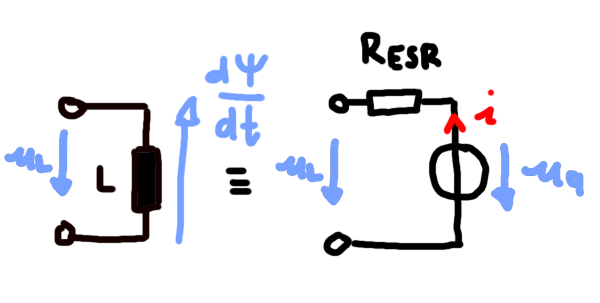
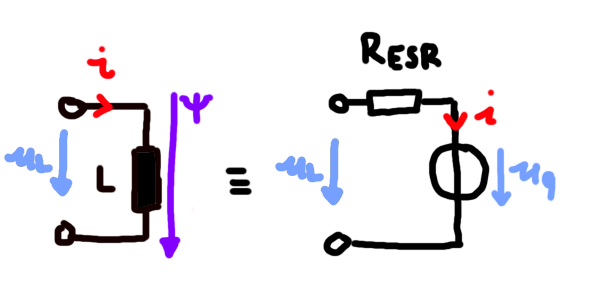
vault backup: 2025-05-11 21:39:41 from PC-Simon

diff --git a/Elektrotechnik/Induktivität.md b/Elektrotechnik/Induktivität.md
@@ -84,7 +84,22 @@ Im statischen Fall entspricht das der bereits bekannten Beziehung $\oint_{\parti
 
 ### Bewegungsinduktion
 
+**Generatoren mit Rotationsbewegung**
+
+| ![invert_dark](assets/SynchGen.png) | ![invert_dark](assets/ReluGen.png) |
+| ----------------------------------- | ---------------------------------- |
+| Prinzip des Sysnchrongenerators     | Prinzip des Reluktanzgenerators    |
+
+Die Quellspannung $u_{\mathrm{q}} = \dfrac{\mathrm{d}\Psi}{\mathrm{d}t}(t,\varphi)$ kann in eine induktive und eine rotatorische Komponente aufgespalten werden. 
+
+$$
+u_{\mathrm{q}} = \frac{\partial \Psi}{\partial i} \frac{\mathrm{d}i}{\mathrm{d}t}+ \frac{\partial \Psi}{\partial \vec{\varphi}}\vec{\omega}
+$$
+
+**Generatoren mit translatorischer Bewegung**
+
 ![invert_dark](assets/BewegterLeiter.png)
+
 
 ---
 
